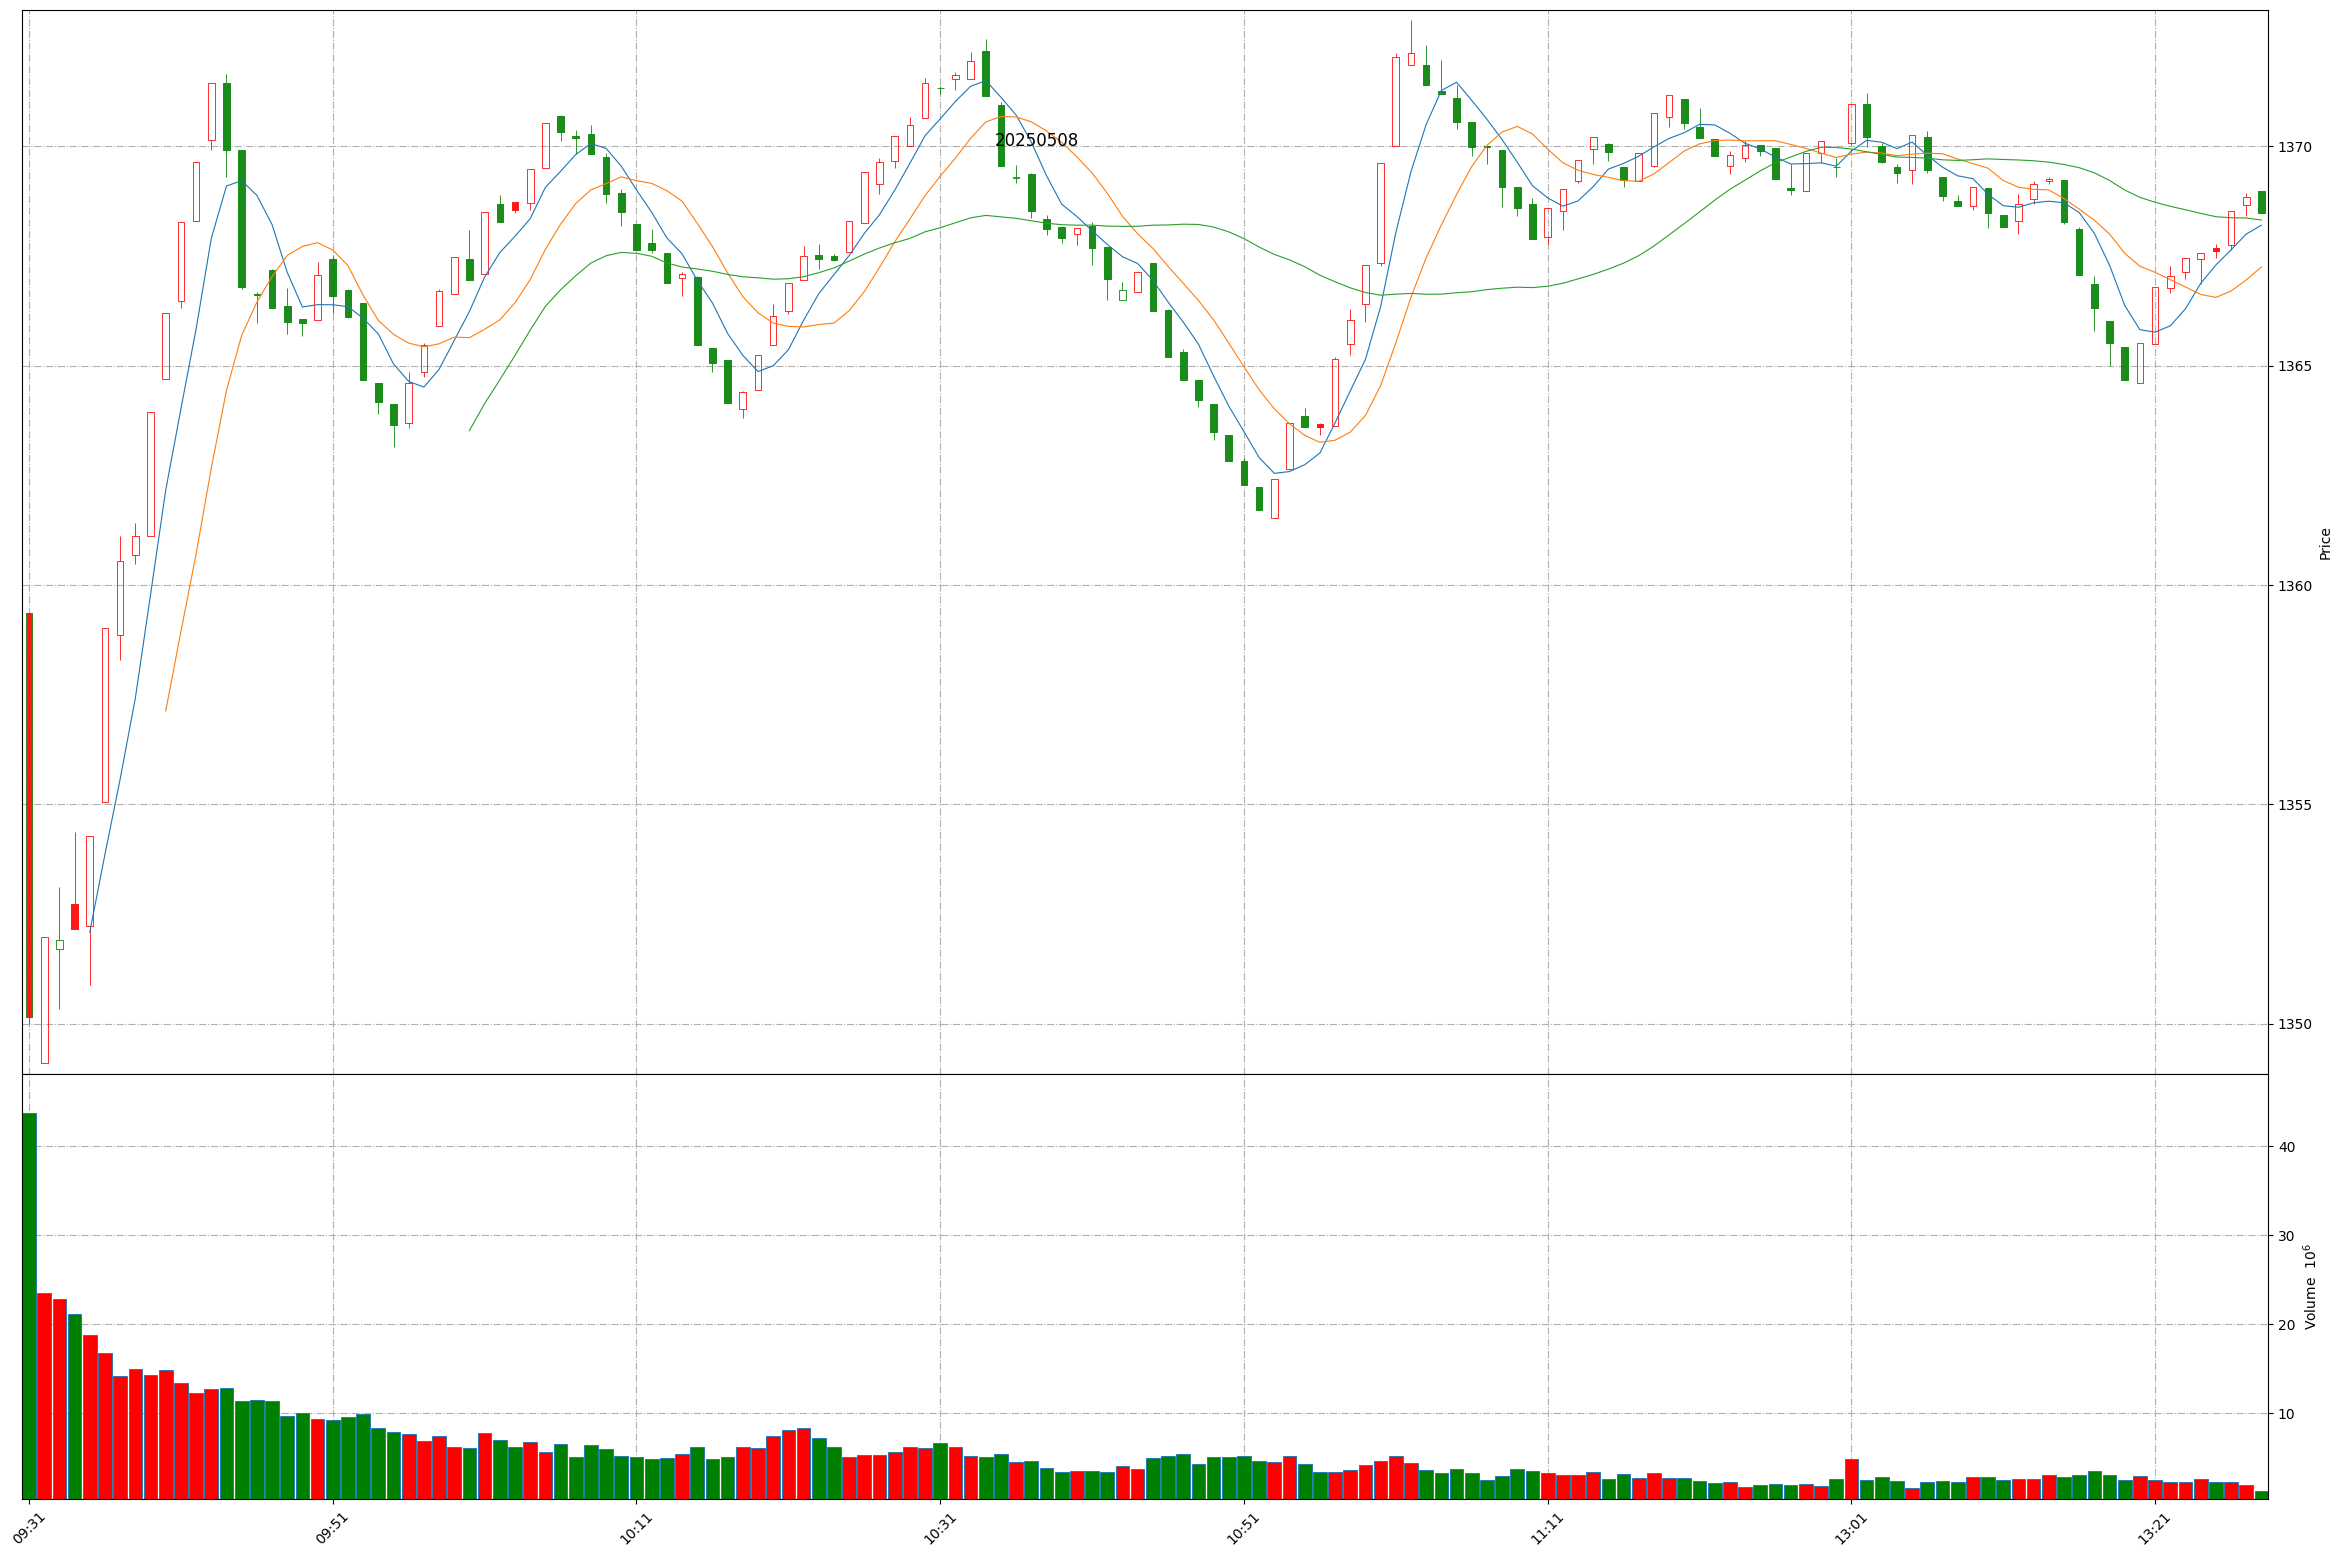
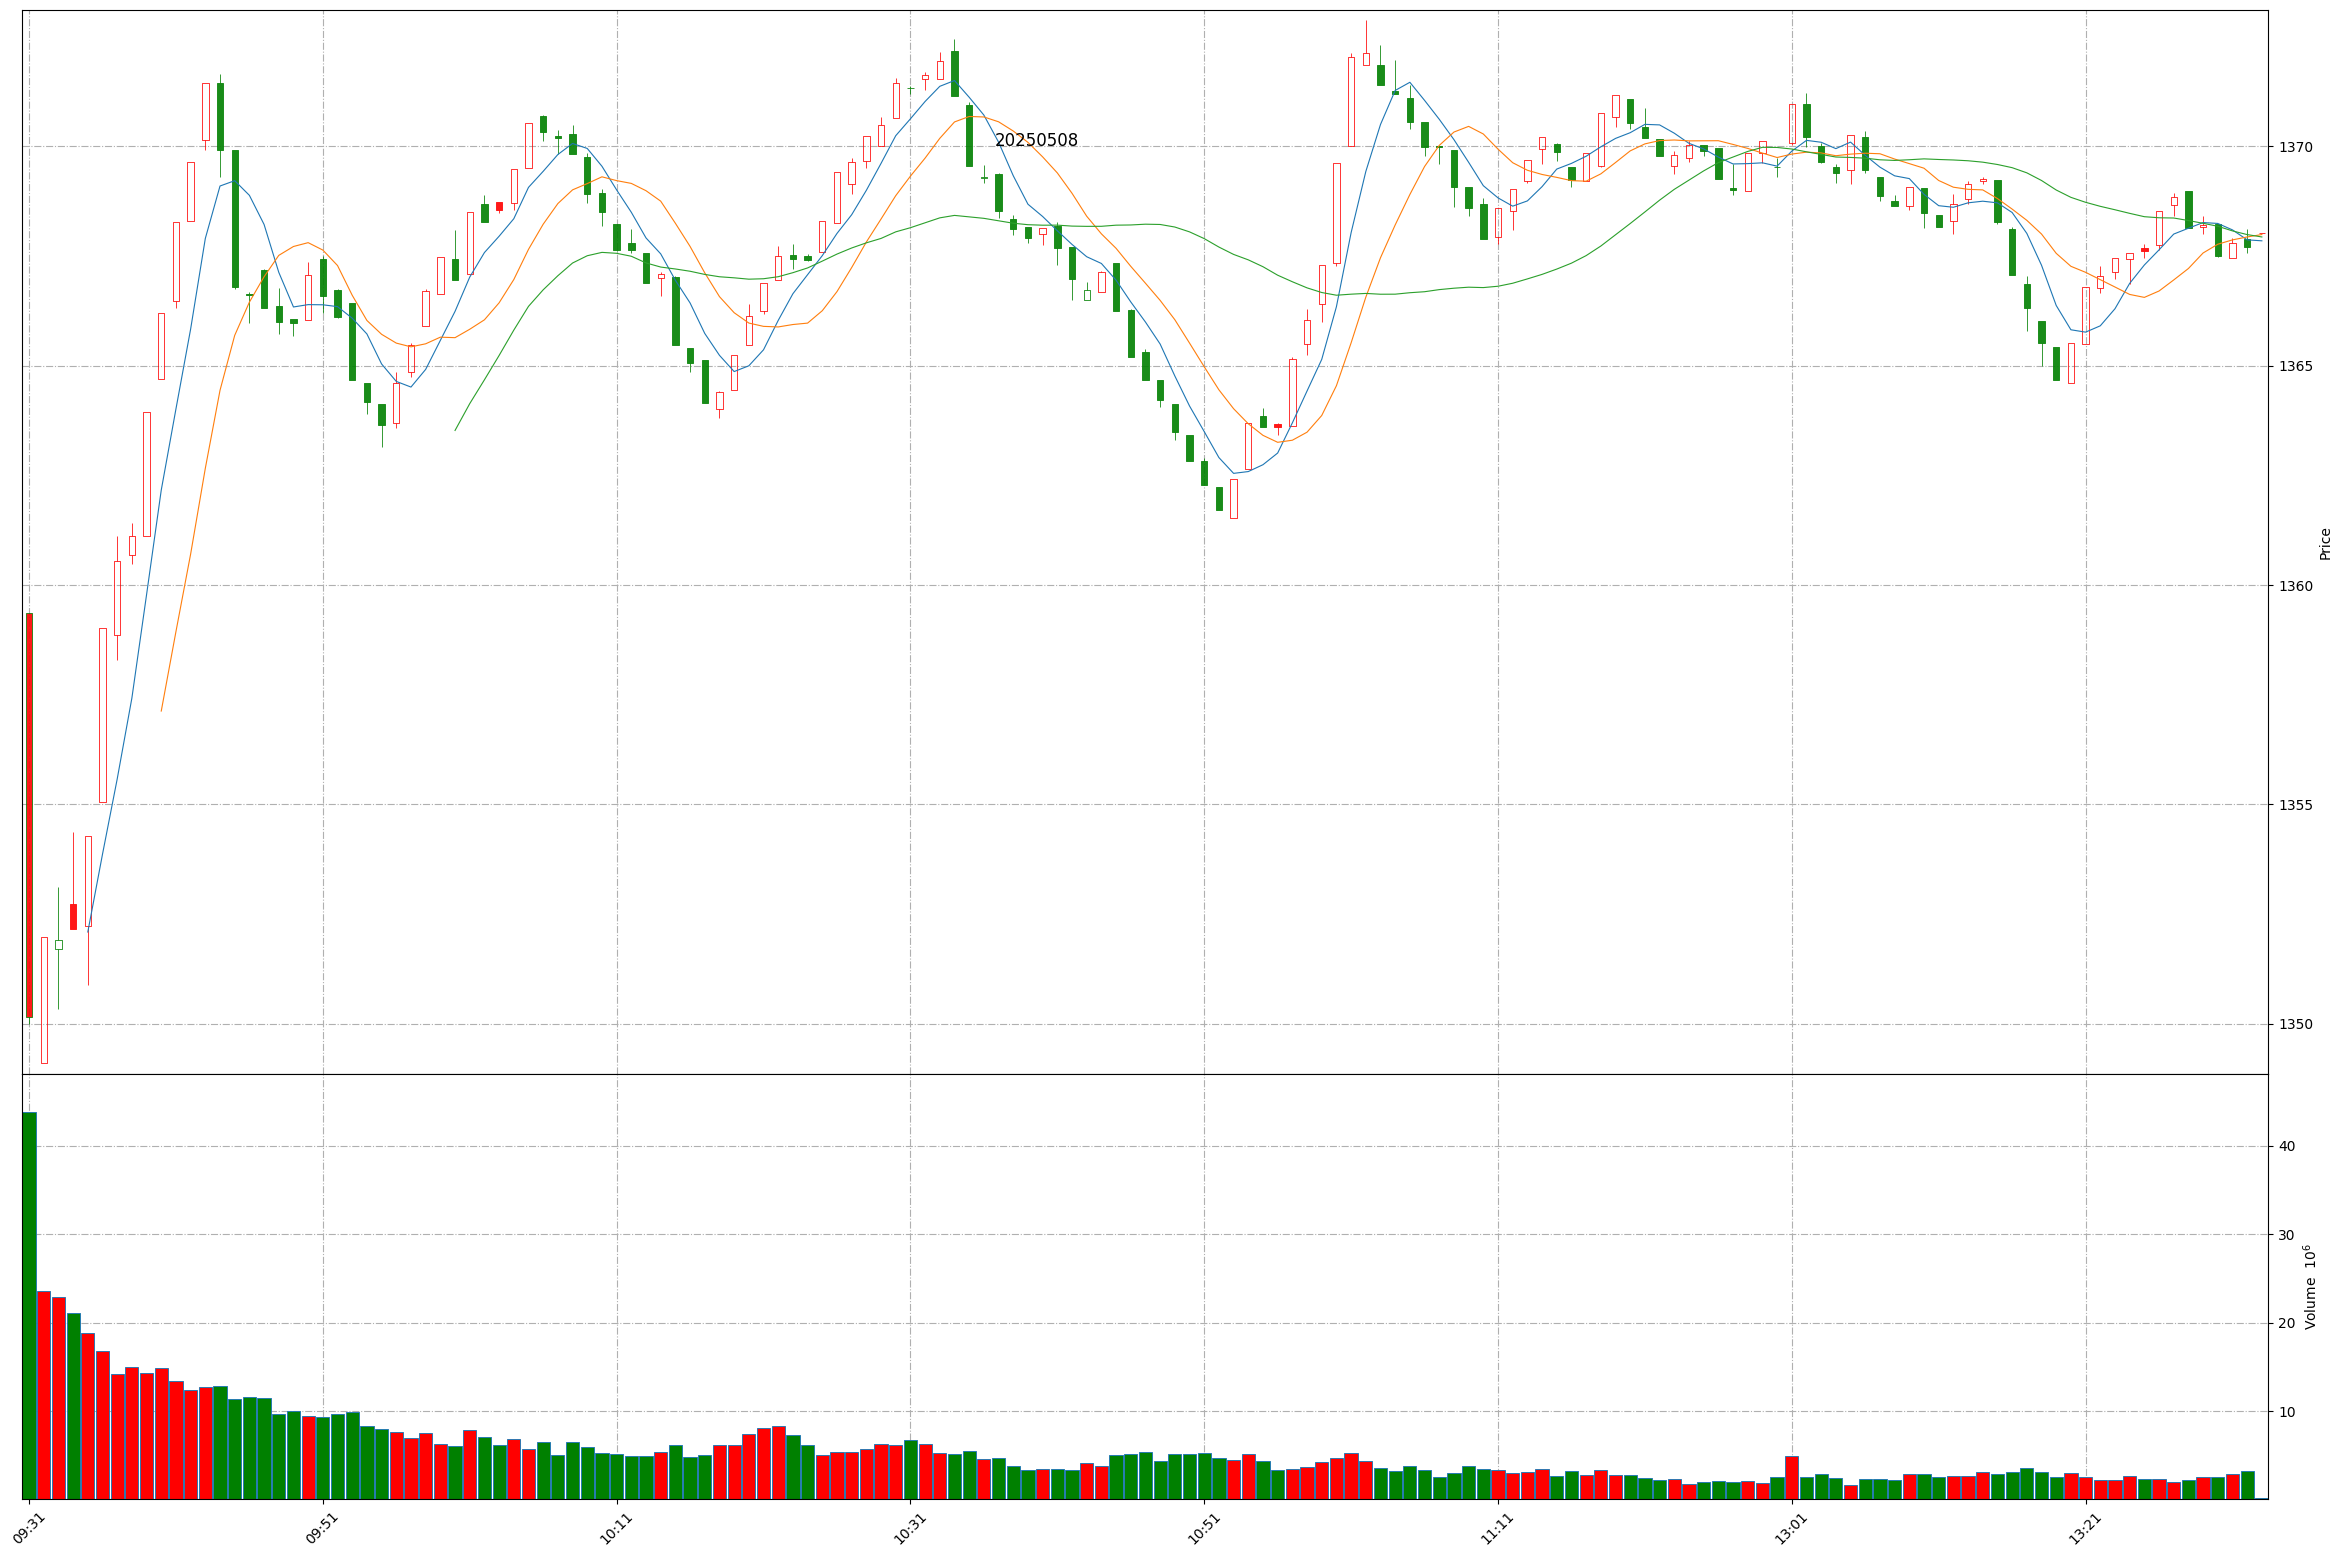
Github action update at 2025-05-08 13:32:28.

diff --git a/README.md b/README.md
@@ -1,11 +1,11 @@
 
 # Daily-A-share-market-quotes 每日 A 股指数（5min 更新）- 20250508
 
-### 上证指数 20250508 13:27
+### 上证指数 20250508 13:32
 ![](./fig/2025/5/20250508-sh000001.png)
 
-### 深证成指 20250508 13:27
+### 深证成指 20250508 13:32
 ![](./fig/2025/5/20250508-sz399001.png)
 
-### 北证50 20250508 13:27
+### 北证50 20250508 13:32
 ![](./fig/2025/5/20250508-bj899050.png)
